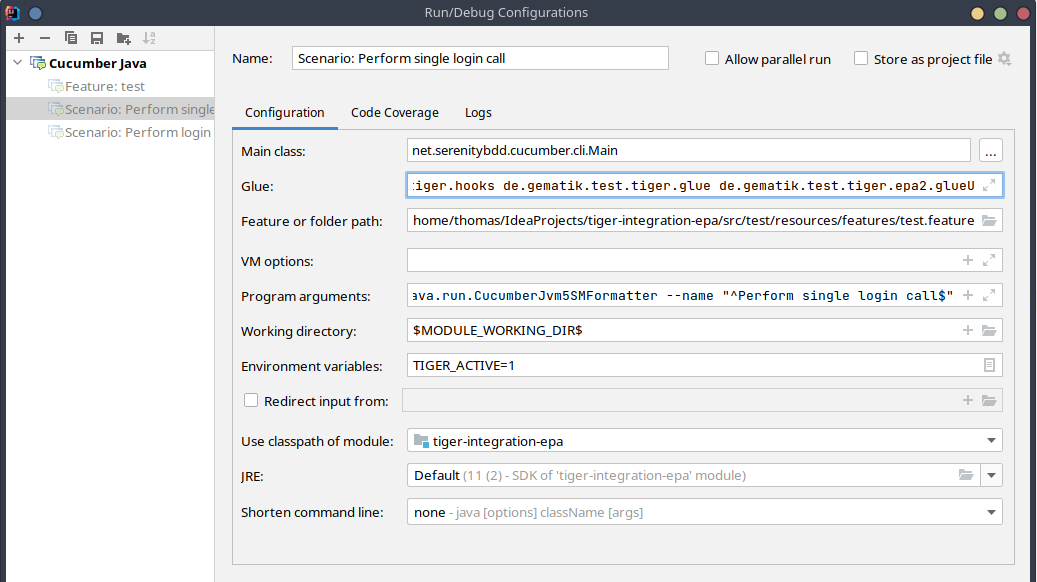
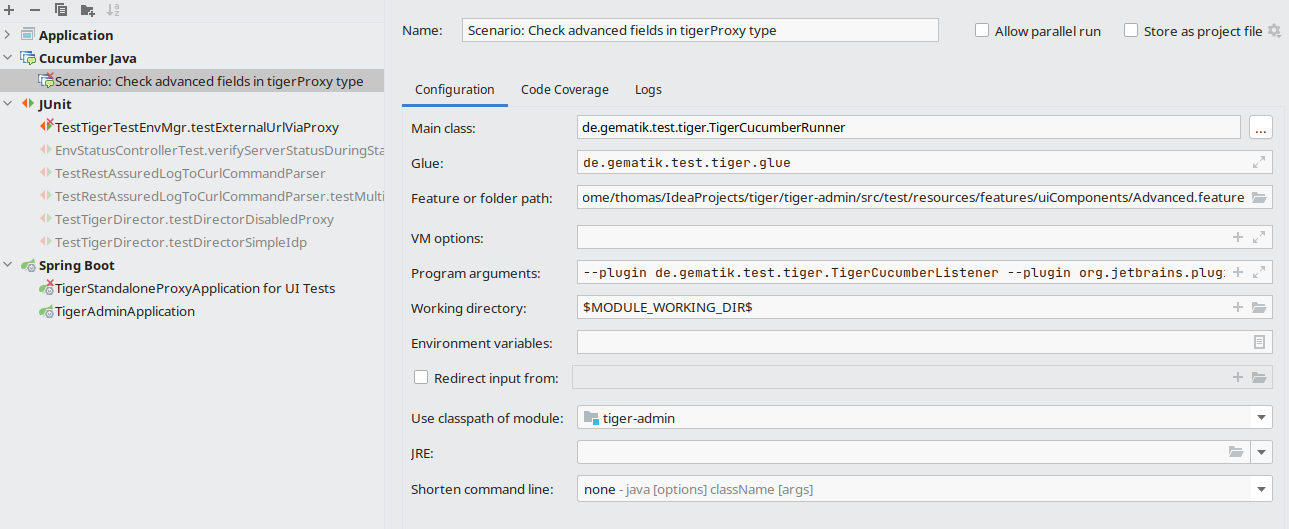
Release 0.21.0

Changed region(s): [[0.0, 0.0, 1.0, 1.0], [0.3086, 0.3025, 0.3394, 0.3327], [0.216, 0.8166, 0.2469, 0.8469]]

diff --git a/Tiger-User-Manual.html b/Tiger-User-Manual.html
@@ -235,7 +235,7 @@ table.CodeRay td.code{padding:0 0 0 .75em}
 <h1>Tiger User Manual</h1>
 <div class="details">
 <span id="author" class="author">TIGER@gematik.de</span><br>
-<span id="revdate">Version 0.20.2 - 2022-05-11</span>
+<span id="revdate">Version 0.21.0 - 2022-05-25</span>
 </div>
 <div id="toc" class="toc2">
 <div id="toctitle">Contents</div>
@@ -281,7 +281,7 @@ table.CodeRay td.code{padding:0 0 0 .75em}
 <li><a href="#_tiger_test_library_2">5. Tiger Test library</a>
 <ul class="sectlevel2">
 <li><a href="#_tiger_test_lib_configuration">5.1. Tiger test lib configuration</a></li>
-<li><a href="#_cucumber_and_tigertesthooks">5.2. Cucumber and TigerTestHooks</a></li>
+<li><a href="#_cucumber_and_hooks">5.2. Cucumber and Hooks</a></li>
 <li><a href="#_using_the_cucumber_tiger_validation_steps">5.3. Using the Cucumber Tiger validation steps</a></li>
 <li><a href="#_using_tiger_test_lib_helper_classes">5.4. Using Tiger test lib helper classes</a></li>
 <li><a href="#_synchronizing_bdd_scenarios_with_polarion_test_cases_gematik_only">5.5. Synchronizing BDD scenarios with Polarion test cases (Gematik only)</a></li>
@@ -692,7 +692,6 @@ The second dependency is needed so that the IntelliJ Cucumber plugin detects the
                         <span class="tag">&lt;configuration&gt;</span>
                             <span class="comment">&lt;!-- mandatory --&gt;</span>
                             <span class="tag">&lt;glues&gt;</span>
-                                <span class="tag">&lt;glue&gt;</span>de.gematik.test.tiger.hooks<span class="tag">&lt;/glue&gt;</span>
                                 <span class="tag">&lt;glue&gt;</span>de.gematik.test.tiger.glue<span class="tag">&lt;/glue&gt;</span>
                                 <span class="comment">&lt;!-- add your packages here --&gt;</span>
                             <span class="tag">&lt;/glues&gt;</span>
@@ -843,7 +842,6 @@ You may decide to manually write your own JUnit driver classes in which case you
                         <span class="tag">&lt;configuration&gt;</span>
                             <span class="comment">&lt;!-- mandatory --&gt;</span>
                             <span class="tag">&lt;glues&gt;</span>
-                                <span class="tag">&lt;glue&gt;</span>de.gematik.test.tiger.hooks<span class="tag">&lt;/glue&gt;</span>
                                 <span class="tag">&lt;glue&gt;</span>de.gematik.test.tiger.glue<span class="tag">&lt;/glue&gt;</span>
                                 <span class="comment">&lt;!-- add your packages here --&gt;</span>
                             <span class="tag">&lt;/glues&gt;</span>
@@ -988,15 +986,15 @@ comma separated list of glue/hook packages as specified by the glues configurati
 <pre class="CodeRay highlight"><code data-lang="java"><span class="keyword">package</span> <span class="namespace">de.gematik.test.tiger.integration.YOURPROJECT</span>;
 
 <span class="keyword">import</span> <span class="include">io.cucumber.junit.CucumberOptions</span>;
-<span class="keyword">import</span> <span class="include">net.serenitybdd.cucumber.CucumberWithSerenity</span>;
+<span class="keyword">import</span> <span class="include">de.gematik.test.tiger.TigerCucumberRunner</span>;
 <span class="keyword">import</span> <span class="include">org.junit.runner.RunWith</span>;
 
-<span class="annotation">@RunWith</span>(CucumberWithSerenity.class)
+<span class="annotation">@RunWith</span>(TigerCucumberRunner.class)
 <span class="annotation">@CucumberOptions</span>(
     features = {<span class="string"><span class="delimiter">&quot;</span><span class="content">src/test/resources/features/YOURFEATURE.feature</span><span class="delimiter">&quot;</span></span>},
-    plugin = {<span class="string"><span class="delimiter">&quot;</span><span class="content">json:target/cucumber-parallel/1.json</span><span class="delimiter">&quot;</span></span>},
+    plugin = {<span class="string"><span class="delimiter">&quot;</span><span class="content">json:target/cucumber-parallel/1.json</span><span class="delimiter">&quot;</span></span>, <span class="string"><span class="delimiter">&quot;</span><span class="content">de.gematik.test.tiger.TigerCucumberListener</span><span class="delimiter">&quot;</span></span>},
     monochrome = <span class="predefined-constant">false</span>,
-    glue = {<span class="string"><span class="delimiter">&quot;</span><span class="content">de.gematik.test.tiger.hooks</span><span class="delimiter">&quot;</span></span>, <span class="string"><span class="delimiter">&quot;</span><span class="content">de.gematik.test.tiger.glue</span><span class="delimiter">&quot;</span></span>,
+    glue = {<span class="string"><span class="delimiter">&quot;</span><span class="content">de.gematik.test.tiger.glue</span><span class="delimiter">&quot;</span></span>,
         <span class="string"><span class="delimiter">&quot;</span><span class="content">ANY ADDITIONAL PACKAGES containing GLUE or HOOKS code</span><span class="delimiter">&quot;</span></span>})
 <span class="directive">public</span> <span class="type">class</span> <span class="class">Driver1IT</span> {
 
@@ -1151,7 +1149,7 @@ making it very complicated to make sure your validations are working as expected
 <div class="title">Run/Debug settings for Java Cucumber template</div>
 <ul>
 <li>
-<p>Main class: net.serenitybdd.cucumber.cli.Main</p>
+<p>Main class: de.gematik.test.tiger.TigerCucumberRunner</p>
 </li>
 <li>
 <p>Glue:</p>
@@ -1159,9 +1157,6 @@ making it very complicated to make sure your validations are working as expected
 <ul>
 <li>
 <p>de.gematik.test.tiger.glue</p>
-</li>
-<li>
-<p>de.gematik.test.tiger.hooks</p>
 </li>
 <li>
 <p>net.serenitybdd.cucumber.actors<br>
@@ -1179,6 +1174,16 @@ if you are using the screenplay pattern (PREFERRED!)</p>
 <ul>
 <li>
 <p>Java proxy system properties (see <a href="#_proxy_configuration">Proxy configuration</a> below)</p>
+</li>
+</ul>
+</div>
+</li>
+<li>
+<p>Program arguments:</p>
+<div class="ulist">
+<ul>
+<li>
+<p>--plugin de.gematik.test.tiger.TigerCucumberListener</p>
 </li>
 </ul>
 </div>
@@ -1385,8 +1390,6 @@ Their meaning and format are explained in the related section.</p>
 
   <span class="comment"># type specific sub structure for docker container and compose nodes</span>
   <span class="key">dockerOptions</span>:
-    <span class="comment"># only used by docker compose nodes</span>
-    <span class="key">serviceHealthchecks</span>: <span class="string"><span class="content">[]</span></span>
     <span class="comment"># all properties below only used by docker container nodes</span>
     <span class="key">proxied</span>: <span class="string"><span class="content">boolean</span></span>
     <span class="key">oneShot</span>: <span class="string"><span class="content">boolean</span></span>
@@ -1562,13 +1565,7 @@ For containers that should exit after a single command you may enable the oneSho
   <span class="comment"># (it could also be located inside a jar that is in the class path)</span>
   <span class="key">source</span>:
     - <span class="string"><span class="content">classpath:/de/gematik/test/tiger/testenvmgr/epa/titus-epa2.yml</span></span>
-    - <span class="string"><span class="content">classpath:/de/gematik/test/tiger/testenvmgr/epa/titus-epa2-local.yml</span></span>
-  <span class="key">dockerOptions</span>:
-    <span class="comment"># MANDATORY list of URLs to check for a successful start up</span>
-    <span class="comment"># of the docker compose's services</span>
-    <span class="key">serviceHealthchecks</span>:
-      - <span class="string"><span class="content">http://service1:8001/</span></span>
-      - <span class="string"><span class="content">https://service2:9001/</span></span></code></pre>
+    - <span class="string"><span class="content">classpath:/de/gematik/test/tiger/testenvmgr/epa/titus-epa2-local.yml</span></span></code></pre>
 </div>
 </div>
 <div class="listingblock">
@@ -1578,11 +1575,7 @@ For containers that should exit after a single command you may enable the oneSho
   <span class="key">type</span>: <span class="string"><span class="content">compose</span></span>
   <span class="key">source</span>:
     - <span class="string"><span class="content">classpath:/de/gematik/test/tiger/testenvmgr/demis/demis_localhost.yml</span></span>
-  <span class="key">startupTimeoutSec</span>: <span class="string"><span class="content">180</span></span>
-  <span class="key">dockerOptions</span>:
-    <span class="key">serviceHealthchecks</span>:
-      - <span class="string"><span class="content">http://notification-gateway:9042</span></span>
-      - <span class="string"><span class="content">http://notification-portal:9041/welcome</span></span></code></pre>
+  <span class="key">startupTimeoutSec</span>: <span class="string"><span class="content">180</span></span></code></pre>
 </div>
 </div>
 </div>
@@ -1727,7 +1720,7 @@ If it is ever necessary to change the external URL, the test suite does not have
     <span class="key">proxyPort</span>: <span class="string"><span class="content">3128</span></span>
     <span class="comment"># OPTIONAL protocol the proxy is expecting requests in. One of [http|https]</span>
     <span class="comment"># Default value is http</span>
-    <span class="key">proxyProtocol</span>: <span class="string"><span class="content">http</span></span>
+    <span class="key">proxiedServerProtocol</span>: <span class="string"><span class="content">http</span></span>
     <span class="comment"># configures the proxy itself. For more details</span>
     <span class="comment"># please check the chapter about the local test suite Tiger Proxy below</span>
     <span class="error">...</span>
@@ -2687,7 +2680,7 @@ If <code>message</code> is a request, then the <code>message</code> itself will 
 <div class="sect2">
 <h3 id="_additional_configuration">4.9. Additional configuration</h3>
 <div class="paragraph">
-<p>There are some additional configuration-flags in the tiger-proxy:</p>
+<p>There are some additional configuration-flags in the Tiger Proxy:</p>
 </div>
 <div class="sect3">
 <h4 id="_performance">4.9.1. Performance</h4>
@@ -2729,7 +2722,7 @@ If <code>message</code> is a request, then the <code>message</code> itself will 
 <h2 id="_tiger_test_library_2">5. Tiger Test library</h2>
 <div class="sectionbody">
 <div class="paragraph">
-<p>As outlined in <a href="#_overview">the overview section</a> the Tiger test libarary is<br>
+<p>As outlined in <a href="#_overview">the overview section</a> the Tiger test library is<br>
 one of the three core components of the Tiger test framework.<br>
 Its main goal is to provide extensive support for BDD/Cucumber testing and integrating the local Tiger Proxy<br>
 with the test environment manager and the started test environment.</p>
@@ -2765,38 +2758,39 @@ and activate / deactivate certain features.</p>
     <span class="comment"># Ansi color sequences in their console you may deactivate the coloring with this flag.</span>
     <span class="comment"># Activated by default.</span>
     <span class="key">rbelAnsiColors</span>: <span class="string"><span class="content">true</span></span>
-    <span class="comment"># Flag whether to start a small Java Swing UI to display the current steps / banner messages</span>
+    <span class="comment"># Flag whether to start a browser window to display</span>
+    <span class="comment"># the current steps / banner messages / rbel logs</span>
     <span class="comment"># when executing the test suite.</span>
     <span class="comment"># This feature can be used to instruct the tester to follow</span>
     <span class="comment"># a specific test workflow for manual tests.</span>
     <span class="comment"># Deactivated by default</span>
-    <span class="key">activateMonitorUI</span>: <span class="string"><span class="content">false</span></span>
-    <span class="comment"># Flag whether to add a curl command details button to SerenityRest Restassured calls</span>
+    <span class="key">activateWorkflowUi</span>: <span class="string"><span class="content">false</span></span>
+    <span class="comment"># Flag whether to add a curl command details button to</span>
+    <span class="comment"># SerenityRest Restassured calls</span>
     <span class="comment"># in the Serenity BDD report</span>
     <span class="key">addCurlCommandsForRaCallsToReport</span>: <span class="string"><span class="content">true</span></span></code></pre>
 </div>
 </div>
 </div>
 <div class="sect2">
-<h3 id="_cucumber_and_tigertesthooks">5.2. Cucumber and TigerTestHooks</h3>
+<h3 id="_cucumber_and_hooks">5.2. Cucumber and Hooks</h3>
 <div class="paragraph">
-<p>As Tiger focuses on BDD and Cucumber based test suites all the setup and tear down as well as steps based actions are defined in the TigerTestHooks class.</p>
+<p>As Tiger focuses on BDD and Cucumber based test suites all the setup and tear down as well as steps based actions are performed .</p>
 </div>
 <div class="paragraph">
-<p>That&#8217;s why it is mandatory to add the package de.gematik.test.tiger.hooks to the glue packages list.</p>
+<p>That&#8217;s why it is mandatory to add the plugin de.gematik.test.tiger.TigerCucumberListener to the plugins list and use the TigerCucumberRunner.</p>
 </div>
 <div class="paragraph">
-<p>The TigerTestHooks class initializes a static single RBelMessage listener to collect all messages received by the local Tiger Proxy and provides those messages via a getter method to the Tiger filter and validation steps.</p>
+<p>The LocalProxyRbelMessageListener class initializes a static single RBelMessage listener to collect all messages received by the local Tiger Proxy and provides those messages via a getter method to the Tiger filter and validation steps.</p>
 </div>
 <div class="paragraph">
-<p>The @Before method calls the TigerDirector once<br>
-to initiate the Tiger test environment manager, the local Tiger Proxy and optionally the monitoring UI and parses the current scenario / feature file.<br>
+<p>At startup of the TigerCucumberRunner the TigerDirector gets called once to initiate the Tiger test environment manager, the local Tiger Proxy and optionally the workflow UI.<br>
 It adds a RbelMessage Listener once to the local Tiger proxy and also clears the RbelMessages queue before each scenario / scenario outline variant.<br>
-Utilizing the close integration of SerenityBDD and RestAssured the @Before method also registers a Restassured request filter, parses the details and adds a curl Command details button to the Serenity BDD report.<br>
-The curl command shown in this section allows to repeat the performed REST request, for manual test failure analysis.</p>
+Utilizing the close integration of SerenityBDD and RestAssured at startup also a Restassured request filter, which parses the details and adds a curl Command details button to the Serenity BDD report, is registered.<br>
+The curl command shown in that section in the report allows to repeat the performed REST request, for manual test failure analysis.</p>
 </div>
 <div class="paragraph">
-<p>The @After method saves all collected RbelMessages as HTML file to the <code>target/rbellogs</code> folder, attaches it to the SerenityBDD report as test evidence and logs the current test run state (success/failed rate) to the console.</p>
+<p>After each scenario / data variant all collected RbelMessages are saved as HTML file to the <code>target/rbellogs</code> folder, and attached to the SerenityBDD report as test evidence. The current test run state (success/failed rate) is logged to the console.</p>
 </div>
 <div class="paragraph">
 <p>The TigerDirector in the future will become a general high level access class to all the major features of the Tiger test framework.<br>
@@ -2809,35 +2803,10 @@ Such things as syncing test cases and test reports with Polarion, creating requi
 <i class="fa icon-note" title="Note"></i>
 </td>
 <td class="content">
-For now, the TigerDirector is only for internal use and does not provide any implementation of the aforementioned features.
+For now, the TigerDirector, TigerCucumberRunner, TigerCucumberListener are only for internal use and do not provide any implementation of the aforementioned features.
 </td>
 </tr>
 </table>
-</div>
-<div class="sect3">
-<h4 id="_how_to_use_tiger_in_a_non_cucumber_scenario">5.2.1. How to use Tiger in a non Cucumber scenario</h4>
-<div class="paragraph">
-<p>If you are using TestNG, plain JUnit or other Test harness frameworks, you have to ensure that you call the four methods defined in the TigerTestHooks class at the appropriate times.</p>
-</div>
-<div class="ulist">
-<ul>
-<li>
-<p>The @Before method must be called before each Test scenario</p>
-</li>
-<li>
-<p>The @BeforeStep method MIGHT be called before each test step</p>
-</li>
-<li>
-<p>The @After method MIGHT be called after each Test scenario</p>
-</li>
-</ul>
-</div>
-<div class="paragraph">
-<p>If you provide a dummy Scenario instance with dummy steps matching your test code to the method you might use all methods. Else you just pass in a null Scenario to the methods or do not call the other methods in your test run.</p>
-</div>
-<div class="paragraph">
-<p>But take note that this will not pop up UI Workflow banner messages and will not save RBelMessage HTML files. As a workaround you might use the TigerDirector to manually trigger UI Monitor popups via its method <code>updateStepInMonitor(Step step)</code>.</p>
-</div>
 </div>
 </div>
 <div class="sect2">
@@ -2857,7 +2826,7 @@ construct a <a href="#_mesh_setup_traffic_endpoints">Tiger Proxy mesh</a> set up
 <p>Filter for server, method, path, RBelPath node matching given value in request</p>
 </li>
 <li>
-<p>Find first / next matching request</p>
+<p>Find first / next / last matching request</p>
 </li>
 <li>
 <p>Clear all recorded messages</p>
@@ -3162,6 +3131,26 @@ only check for regex matches if they were not equal.</p>
 <span class="annotation">@When</span>(<span class="string"><span class="delimiter">&quot;</span><span class="content">TGR find next request to path {string} with {string} matching {string}</span><span class="delimiter">&quot;</span></span>)
 
 <span class="comment">/**
+ * find the LAST request where the path equals or matches as regex and memorize it in the {@link #rbelValidator}
+ * instance.
+ *
+ * @param path path to match
+ */</span>
+<span class="annotation">@Wenn</span>(<span class="string"><span class="delimiter">&quot;</span><span class="content">TGR finde die letzte Anfrage mit dem Pfad {string}</span><span class="delimiter">&quot;</span></span>)
+<span class="annotation">@When</span>(<span class="string"><span class="delimiter">&quot;</span><span class="content">TGR find last request to path {string}</span><span class="delimiter">&quot;</span></span>)
+
+<span class="comment">/**
+ * find the LAST request where path and node value equal or match as regex and memorize it in the {@link
+ * #rbelValidator} instance.
+ *
+ * @param path     path to match
+ * @param rbelPath rbel path to node/attribute
+ * @param value    value to match at given node/attribute
+ */</span>
+<span class="annotation">@Wenn</span>(<span class="string"><span class="delimiter">&quot;</span><span class="content">TGR finde die letzte Anfrage mit Pfad {string} und Knoten {string} der mit {string} übereinstimmt</span><span class="delimiter">&quot;</span></span>)
+<span class="annotation">@When</span>(<span class="string"><span class="delimiter">&quot;</span><span class="content">TGR find last request to path {string} with {string} matching {string}</span><span class="delimiter">&quot;</span></span>)
+
+<span class="comment">/**
  * assert that there is any message with given rbel path node/attribute matching given value.
  * The result (request or response) will not be stored in the {@link #rbelValidator}
  * instance.
@@ -3352,7 +3341,7 @@ All classes listed here are part of the tiger-common module
 <h4 id="_banner">5.4.1. Banner</h4>
 <div class="paragraph">
 <p>If you want to use large ASCII art style log banners you may find this class very helpful.<br>
-Supports ANSI coloring and a set of different fonts. Furthermore all banner messages are displayed in the Mmonitoring and highlighted in the Workflow UI<br>
+Supports ANSI coloring and a set of different fonts. Furthermore, all banner messages are displayed and highlighted in the Workflow UI<br>
 For more details please check the code and its usages in the Tiger test framework.</p>
 </div>
 </div>
@@ -3753,10 +3742,10 @@ You will find two predefined namespaces and also the ability to add your own, al
 <div class="ulist">
 <ul>
 <li>
-<p><code>lastResponse</code> returns the last response, optionally filtered by a given Rbel-path</p>
+<p><code>currentResponse</code> returns the current response, optionally filtered by a given Rbel-path</p>
 </li>
 <li>
-<p><code>lastResponseAsString</code> returns the string-representation of the last response, optionally filtered by a given Rbel-path</p>
+<p><code>currentResponseAsString</code> returns the string-representation of the last response, optionally filtered by a given Rbel-path</p>
 </li>
 </ul>
 </div>
@@ -3765,7 +3754,7 @@ You will find two predefined namespaces and also the ability to add your own, al
 </div>
 <div class="listingblock">
 <div class="content">
-<pre class="CodeRay highlight"><code>!{rbel:lastResponseAsString('$.body.html.head.link.href')}</code></pre>
+<pre class="CodeRay highlight"><code>!{rbel:currentResponseAsString('$.body.html.head.link.href')}</code></pre>
 </div>
 </div>
 <div class="paragraph">
@@ -3982,7 +3971,7 @@ Till then there is not much more than in the <a href="#_workflow_ui">Test lib ch
 </div>
 <div id="footer">
 <div id="footer-text">
-Last updated 2022-05-11 09:11:58 +0200
+Last updated 2022-05-25 13:26:03 +0200
 </div>
 </div>
 </body>
